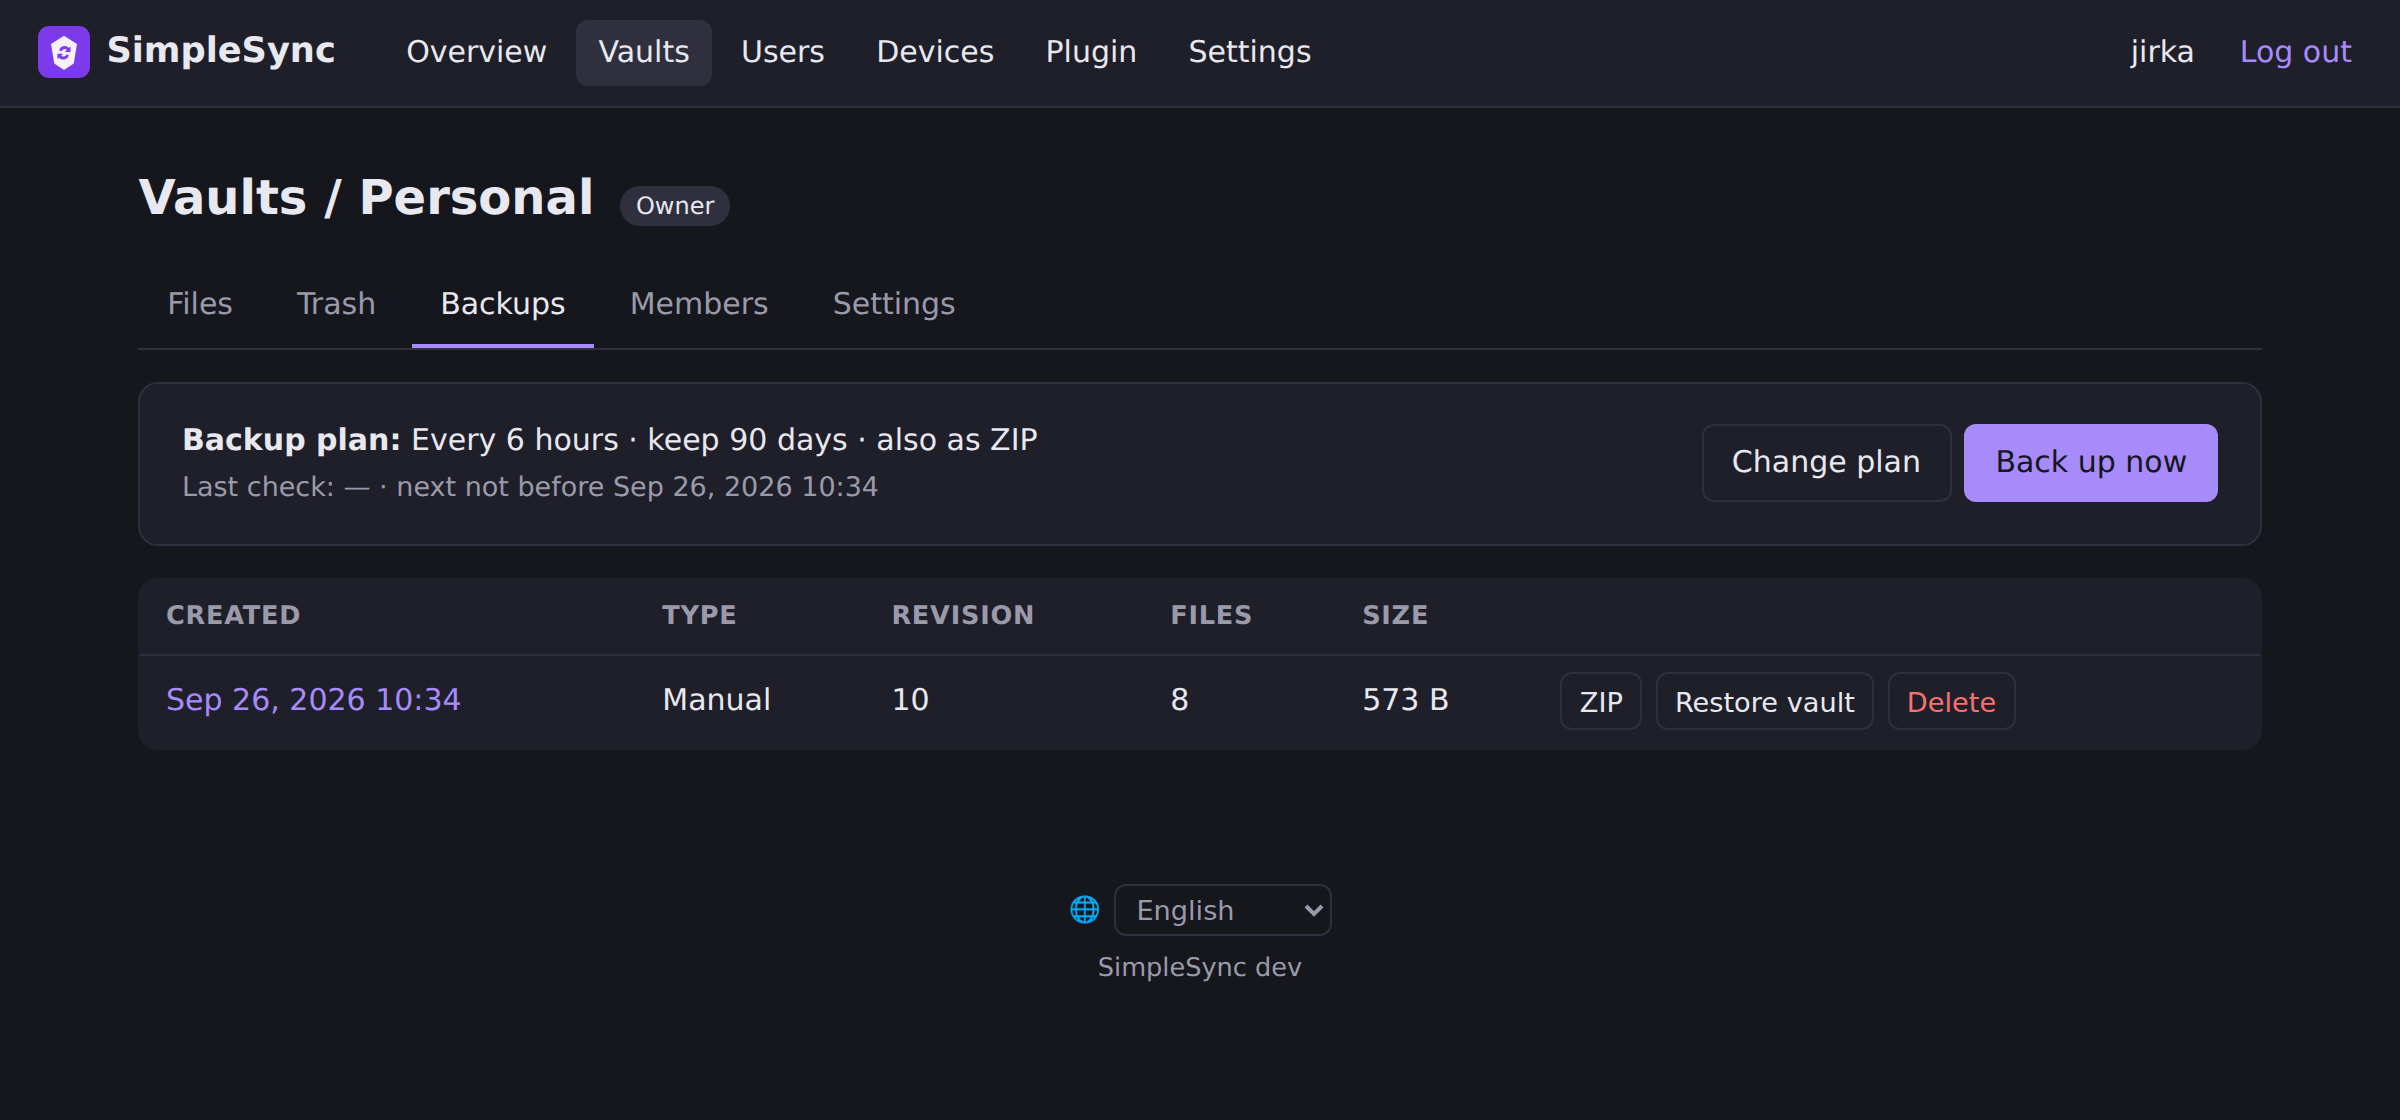
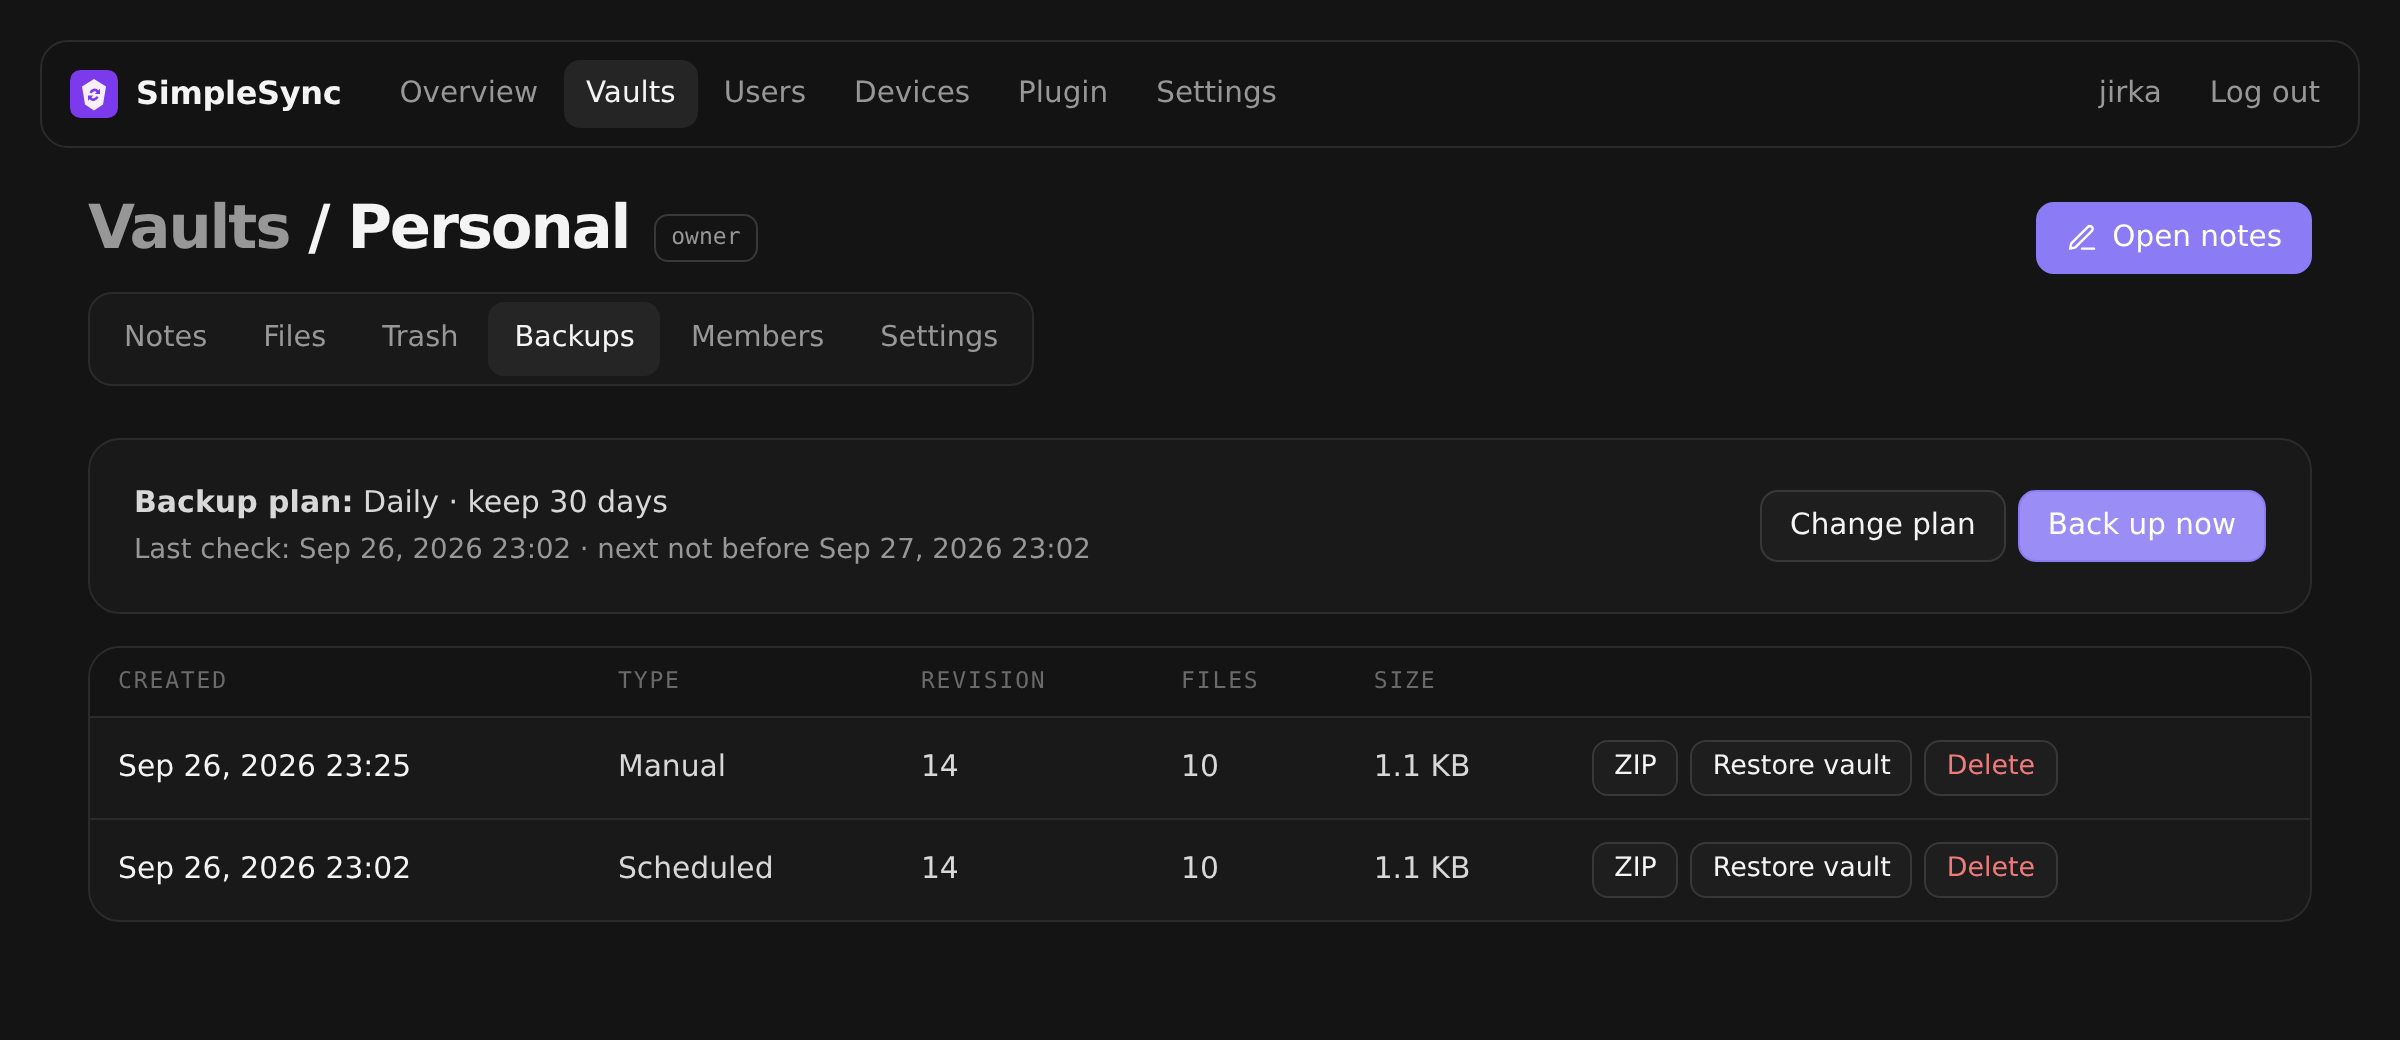
Add the web editor and publishing to the site and guide
- Landing page: new "Web editor" and "Publishing" sections with real
  screenshots, nav links, a hero point and two new FAQ answers.
- Guide: "Edit in the browser" and "Publish notes" chapters; Obsidian is
  no longer required on every device.
- Admin screenshots retaken in the redesigned web admin (0.4.0).
- Fix horizontal overflow of the guide on phones (grid columns and the
  install panes now shrink to the screen).

Claude-Session: https://claude.ai/code/session_01C7thFGAFqRmwNzkUpaCfyz

diff --git a/guide.html b/guide.html
@@ -79,6 +79,8 @@
       <li><a href="#phone">Phones and tablets</a></li>
       <li><a href="#outside">Reach it from anywhere</a></li>
       <li><a href="#daily">Everyday use</a></li>
+      <li><a href="#web-editor">Edit in the browser</a></li>
+      <li><a href="#publishing">Publish notes</a></li>
       <li><a href="#sharing">Sharing a vault</a></li>
       <li><a href="#restore">History, trash and backups</a></li>
       <li><a href="#devices">Lost a device?</a></li>
@@ -98,7 +100,7 @@
     <p>You need two things:</p>
     <ul>
       <li><b>A machine that runs Docker</b> and stays on: a ZimaOS or CasaOS box, a Synology or Unraid NAS, a Raspberry Pi, or a small VPS with 1 GB of RAM.</li>
-      <li><b>Obsidian 1.4 or newer</b> on every device you want to sync. Desktop, iPhone, iPad and Android all work.</li>
+      <li><b>Obsidian 1.4 or newer</b> on the devices you want to sync. Desktop, iPhone, iPad and Android all work. Anywhere else, a web browser is enough: see <a href="#web-editor">Edit in the browser</a>.</li>
     </ul>
     <div class="callout">
       <div class="callout-title"><svg class="icon"><use href="#i-info"/></svg>How the pieces fit</div>
@@ -181,7 +183,7 @@ DOMAIN=sync.example.com docker compose -f docker-compose.caddy.yml up -d</code><
       <li><b>Keep backups for</b>: 7 days, 30 days, 90 days, 1 year or forever.</li>
       <li>Optionally <b>also save as ZIP</b>, which writes every backup as a separate ZIP file to <code>data/backups/</code>.</li>
     </ul>
-    <figure class="figure"><img src="assets/admin-newvault.png" alt="The New vault form in the web admin" width="2400" height="940" loading="lazy"><figcaption>Creating a vault with a backup plan.</figcaption></figure>
+    <figure class="figure"><img src="assets/admin-newvault.png" alt="The New vault form in the web admin" width="2400" height="1720" loading="lazy"><figcaption>Creating a vault with a backup plan.</figcaption></figure>
     <p>Syncing only for yourself? You can skip users. To add family or colleagues, open <b>Users</b>, create an account for each person, then add them to a vault (see <a href="#sharing">Sharing a vault</a>).</p>
     <div class="callout tip">
       <div class="callout-title"><svg class="icon"><use href="#i-bulb"/></svg>Already have a vault full of notes?</div>
@@ -285,6 +287,43 @@ DOMAIN=sync.example.com docker compose -f docker-compose.caddy.yml up -d</code><
     </ul>
     <p>Not synced: <code>.trash</code>, <code>.git</code>, other hidden folders, <code>workspace.json</code> and the plugin's own login token.</p>
 
+    <h2 id="web-editor">Edit in the browser</h2>
+    <p>Every vault can be read and edited on the server's web page, without Obsidian. Useful on a work computer, a borrowed laptop, or for family members who never installed the app.</p>
+    <ol>
+      <li>Log in to the web admin and open a vault.</li>
+      <li>Click <b>Open notes</b> (or the <b>Notes</b> tab).</li>
+      <li>Pick a note in the tree on the left, or create one with <b>+</b>.</li>
+    </ol>
+    <figure class="figure"><img src="assets/editor.png" alt="The web editor with the file tree, the Markdown source and a live preview" width="2400" height="1480" loading="lazy"><figcaption>File tree, source and live preview side by side.</figcaption></figure>
+    <ul>
+      <li><b>Saving is automatic</b>, a moment after you stop typing (or <kbd>Ctrl</kbd> <kbd>S</kbd>). The dot next to the note name shows the state. Changes reach Obsidian on your devices within seconds and appear in the version history as <code>jirka (web)</code>.</li>
+      <li><b>Edit, Split, Read</b> switch between the source, source with preview, and the preview alone.</li>
+      <li>The toolbar and <kbd>Ctrl</kbd> <kbd>B</kbd> / <kbd>I</kbd> / <kbd>K</kbd> cover the usual formatting. Lists continue when you press <kbd>Enter</kbd>.</li>
+      <li>Type <code>[[</code> to get suggestions for a note to link.</li>
+      <li>Paste or drop an image into the text. It is uploaded next to the note and embedded as <code>![[Pasted image …]]</code>.</li>
+      <li>Rename a note by editing its name at the top. Right-click a note or folder in the tree (or use <b>⋯</b>) to rename or delete it. Deleted files go to the vault's <b>Trash</b>.</li>
+    </ul>
+    <p>If the same note is edited in Obsidian at the same time, the changes are merged line by line. If both sides changed the same line, the other version stays and yours is kept next to it as a <code>(conflict …)</code> copy, exactly as on a device. Members with the <b>Read only</b> role see the notes but can't change them.</p>
+
+    <h2 id="publishing">Publish notes</h2>
+    <p>A vault owner can turn chosen notes into a public website served by your own server. Anyone with the address can read it without an account.</p>
+    <ol>
+      <li>Open the vault and go to <span class="path">Settings<span class="sep">›</span>Publishing</span>.</li>
+      <li>Tick <b>Publish this vault as a website</b> and pick an <b>address</b>, for example <code>garden</code>. The site will be at <code>https://sync.example.com/p/garden/</code>.</li>
+      <li>Choose <b>which notes are public</b>:
+        <ul>
+          <li><b>Chosen notes</b>: notes with <code>publish: true</code> in their properties. The <b>Publish</b> button in the web editor adds it for you, and in Obsidian you can add the property yourself.</li>
+          <li><b>A whole folder</b>: every note in one folder. Leave the folder empty to publish the whole vault.</li>
+        </ul>
+      </li>
+      <li>Optionally set a <b>front page</b> note. Without one, the site starts with a list of the published notes.</li>
+    </ol>
+    <figure class="figure"><img src="assets/published.png" alt="A published note with the site's navigation" width="2400" height="1480" loading="lazy"><figcaption>A published note. Links to notes that aren't published show as plain text.</figcaption></figure>
+    <div class="callout">
+      <div class="callout-title"><svg class="icon"><use href="#i-info"/></svg>What stays private</div>
+      <p>Only published notes are on the site. Links to other notes are shown as plain text, so their names and paths don't leak. An image or file is public only when a published note embeds or links it. To take the site down, untick <b>Publish this vault as a website</b>.</p>
+    </div>
+
     <h2 id="sharing">Sharing a vault</h2>
     <p>Open the vault in the web admin, go to <b>Members</b> and add a user with one of these roles:</p>
     <div class="table-scroll">
@@ -301,8 +340,8 @@ DOMAIN=sync.example.com docker compose -f docker-compose.caddy.yml up -d</code><
 
     <h2 id="restore">History, trash and backups</h2>
     <h3>Restore an older version of a note</h3>
-    <p>Open the vault in the web admin, go to <b>Files</b>, open the note and switch to <b>Version history</b>. Preview any version and click restore. The restored version syncs to every device.</p>
-    <figure class="figure"><img src="assets/admin-history.png" alt="Version history of a note in the web admin" width="2400" height="1824" loading="lazy"><figcaption>Every saved version, with a preview.</figcaption></figure>
+    <p>Open the vault in the web admin, go to <b>Files</b> and click <b>Version history</b> next to the note. Preview any version and click restore. The restored version syncs to every device.</p>
+    <figure class="figure"><img src="assets/admin-history.png" alt="Version history of a note in the web admin" width="2400" height="1800" loading="lazy"><figcaption>Every saved version, with a preview.</figcaption></figure>
     <h3>Bring back a deleted file</h3>
     <p>Deleted files are in the vault's <b>Trash</b> tab in the web admin. Restore them from there.</p>
     <h3>Restore from a backup</h3>

diff --git a/index.html b/index.html
@@ -55,6 +55,8 @@
     <nav class="nav-links" aria-label="Main">
       <a href="#how">How it works</a>
       <a href="#features">Features</a>
+      <a href="#editor">Editor</a>
+      <a href="#publish">Publishing</a>
       <a href="#admin">Web admin</a>
       <a href="#install">Install</a>
       <a href="guide.html">Guide</a>
@@ -73,7 +75,7 @@
 <section class="hero">
   <div class="wrap hero-grid">
     <div>
-      <a class="kicker" href="https://community.obsidian.md/plugins/simplesync"><span class="dot"></span><b>Now in Obsidian community plugins</b> · v0.3.5</a>
+      <a class="kicker" href="#editor"><span class="dot"></span><b>New in 0.4: web editor and publishing</b></a>
       <h1>Sync your vault <span class="soft">through a server</span> <span class="accent">you own.</span></h1>
       <p class="lead">SimpleSync is a small server and an Obsidian plugin. Enter the server address, your name and password, then pick a vault. Your notes live on a ZimaOS box, a NAS or a €4 VPS, and nowhere else.</p>
       <div class="cta">
@@ -83,6 +85,7 @@
       <ul class="hero-points">
         <li><svg class="icon"><use href="#i-check"/></svg>Free and open source</li>
         <li><svg class="icon"><use href="#i-check"/></svg>Desktop, iPhone, iPad, Android</li>
+        <li><svg class="icon"><use href="#i-check"/></svg>Edit in any browser</li>
         <li><svg class="icon"><use href="#i-check"/></svg>History and backups</li>
       </ul>
     </div>
@@ -243,6 +246,48 @@
   </div>
 </section>
 
+<!-- ============ WEB EDITOR ============ -->
+<section class="section" id="editor">
+  <div class="wrap">
+    <div class="section-head">
+      <div>
+        <span class="eyebrow">Web editor</span>
+        <h2>No Obsidian at hand? Write in the browser.</h2>
+      </div>
+      <p>Every vault opens in a full editor on your server. On a work computer, a borrowed laptop or a phone without the app, and for people who never installed Obsidian at all.</p>
+    </div>
+    <div class="shot">
+      <img src="assets/editor.png" alt="The SimpleSync web editor: file tree, Markdown source and live preview side by side" width="2400" height="1480" loading="lazy">
+    </div>
+    <div class="editor-points">
+      <div><h3>Saved as you type</h3><p>Changes reach Obsidian on every device within seconds, through the same sync as the plugin. Concurrent edits are merged line by line.</p></div>
+      <div><h3>Obsidian syntax</h3><p>Live preview of <code>[[wikilinks]]</code>, embedded images, callouts, highlights, tags, tasks, tables and properties.</p></div>
+      <div><h3>Files, not just text</h3><p>Create, rename and delete notes and folders. Paste or drop images, type <code>[[</code> to link a note.</p></div>
+      <div><h3>Roles respected</h3><p>Owners and editors can write. Read-only members get a clean reading view.</p></div>
+    </div>
+  </div>
+</section>
+
+<!-- ============ PUBLISHING ============ -->
+<section class="section" id="publish">
+  <div class="wrap split">
+    <div class="shot">
+      <img src="assets/published.png" alt="A published note on a public SimpleSync site" width="2400" height="1480" loading="lazy">
+    </div>
+    <div>
+      <span class="eyebrow">Publishing</span>
+      <h2>Turn notes into a website</h2>
+      <p>Mark a note with <code>publish: true</code>, or publish a whole folder, and it appears on a public site served by your own server. Anyone with the address can read it, no account needed.</p>
+      <div class="url-chip"><svg class="icon"><use href="#i-globe"/></svg><span>sync.example.com/p/<b>garden</b>/</span></div>
+      <ul class="checks">
+        <li><svg class="icon"><use href="#i-check"/></svg>Navigation, front page and Obsidian-style rendering</li>
+        <li><svg class="icon"><use href="#i-check"/></svg>Links to private notes stay plain text, names never leak</li>
+        <li><svg class="icon"><use href="#i-check"/></svg>Images are public only when a published note uses them</li>
+      </ul>
+    </div>
+  </div>
+</section>
+
 <!-- ============ CONFLICTS ============ -->
 <section class="section" id="conflicts">
   <div class="wrap split">
@@ -302,7 +347,7 @@
       <button class="tab" role="tab" aria-selected="false" data-shot="admin-devices" data-caption="Devices: every Obsidian login. Logging one out removes its access immediately.">Devices</button>
     </div>
     <div class="shot">
-      <img id="shot" src="assets/admin-dashboard.png" alt="Overview" width="2400" height="940">
+      <img id="shot" src="assets/admin-dashboard.png" alt="Overview" width="2400" height="1120">
     </div>
     <p class="shot-caption" id="shotCaption">Overview: your vaults, their backup plans, devices online and disk usage.</p>
   </div>
@@ -438,6 +483,8 @@ DOMAIN=sync.example.com docker compose -f docker-compose.caddy.yml up -d</code><
       <details><summary>Does it replace Obsidian Sync?</summary><p>It does the same job, keeping vaults in sync between devices, but on your own server. Obsidian Sync is a great paid service; SimpleSync is for people who want to self-host.</p></details>
       <details><summary>What happens when I connect a new device?</summary><p>If the vault on the server has content, the server always wins: the device becomes an exact copy and nothing is uploaded from it. Files that were only on the device are moved to Obsidian's trash, so nothing is lost. The plugin warns you before this happens. To upload an existing vault, use “Create a new vault from this one”.</p></details>
       <details><summary>Can I use it outside my home network?</summary><p>Yes. On a VPS you get HTTPS automatically. At home, the easiest way is Tailscale or a Cloudflare Tunnel. See <a class="link-accent" href="guide.html#outside">Reach it from anywhere</a>.</p></details>
+      <details><summary>Do I need Obsidian on every device?</summary><p>No. Every vault can be opened and edited in the browser, on the server's own web page. Changes show up in Obsidian on your other devices within seconds.</p></details>
+      <details><summary>Is anything public?</summary><p>Only what you publish. Publishing is off until a vault owner turns it on, and then only notes marked <code>publish: true</code> (or one chosen folder) are on the public site. Everything else needs a login.</p></details>
       <details><summary>Is it end-to-end encrypted?</summary><p>No. The server can read the notes, which is what makes version previews and server-side backups possible. Since you run the server, that's you.</p></details>
       <details><summary>How do I back up the server?</summary><p>Everything lives in one data folder. Copy it, or use the built-in scheduled backups with optional ZIP files.</p></details>
     </div>

diff --git a/styles.css b/styles.css
@@ -363,7 +363,7 @@ kbd { font-size: .8em; border: 1px solid var(--line-strong); border-bottom-width
 @media (max-width: 900px) { .install { grid-template-columns: 1fr; } }
 .panes { border: 1px solid var(--line); border-radius: var(--r-lg); overflow: hidden; background: var(--bg-raised); }
 .panes .seg { margin: 12px 12px 0; }
-.pane { padding: 18px 20px 20px; display: grid; gap: 14px; }
+.pane { padding: 18px 20px 20px; display: grid; grid-template-columns: minmax(0, 1fr); gap: 14px; }
 .pane[hidden] { display: none; }
 .pane > p { color: var(--muted); }
 .code { position: relative; background: var(--surface); border: 1px solid var(--line); border-radius: var(--r); }
@@ -450,7 +450,7 @@ kbd { font-size: .8em; border: 1px solid var(--line-strong); border-bottom-width
 .toc .sub a { padding-left: 20px; font-size: .86rem; }
 .toc .sub a::before { width: 7px; height: 7px; margin-left: -18px; margin-right: 4px; }
 @media (max-width: 900px) {
-  .docs { grid-template-columns: 1fr; gap: 28px; padding-top: 32px; }
+  .docs { grid-template-columns: minmax(0, 1fr); gap: 28px; padding-top: 32px; }
   .toc { position: static; max-height: none; border: 1px solid var(--line); border-radius: var(--r-lg); padding: 18px 16px; }
   .toc .sub { display: none; }
 }
@@ -502,3 +502,14 @@ figure.figure { margin: 18px 0 0; }
 .next small { color: var(--faint); font-size: .8rem; }
 .next span { color: var(--text-strong); font-weight: 500; }
 @media (max-width: 560px) { .next { grid-template-columns: 1fr; } }
+
+/* ---------- web editor & publishing ---------- */
+#editor .shot { margin-bottom: 28px; }
+.editor-points { display: grid; grid-template-columns: repeat(4, minmax(0, 1fr)); gap: 28px; }
+.editor-points h3 { font-size: 1rem; font-weight: 600; letter-spacing: -.01em; margin-bottom: 8px; }
+.editor-points p { color: var(--muted); font-size: .93rem; }
+@media (max-width: 900px) { .editor-points { grid-template-columns: 1fr 1fr; } }
+@media (max-width: 560px) { .editor-points { grid-template-columns: 1fr; } }
+.url-chip { display: inline-flex; align-items: center; gap: 8px; margin-top: 22px; padding: 9px 13px; border-radius: 10px; border: 1px solid var(--line-strong); background: var(--surface); font: .86rem/1.3 var(--mono); color: var(--muted); max-width: 100%; overflow-wrap: anywhere; }
+.url-chip b { color: var(--accent-text); font-weight: 500; }
+.url-chip .icon { width: 15px; height: 15px; color: var(--faint); }
